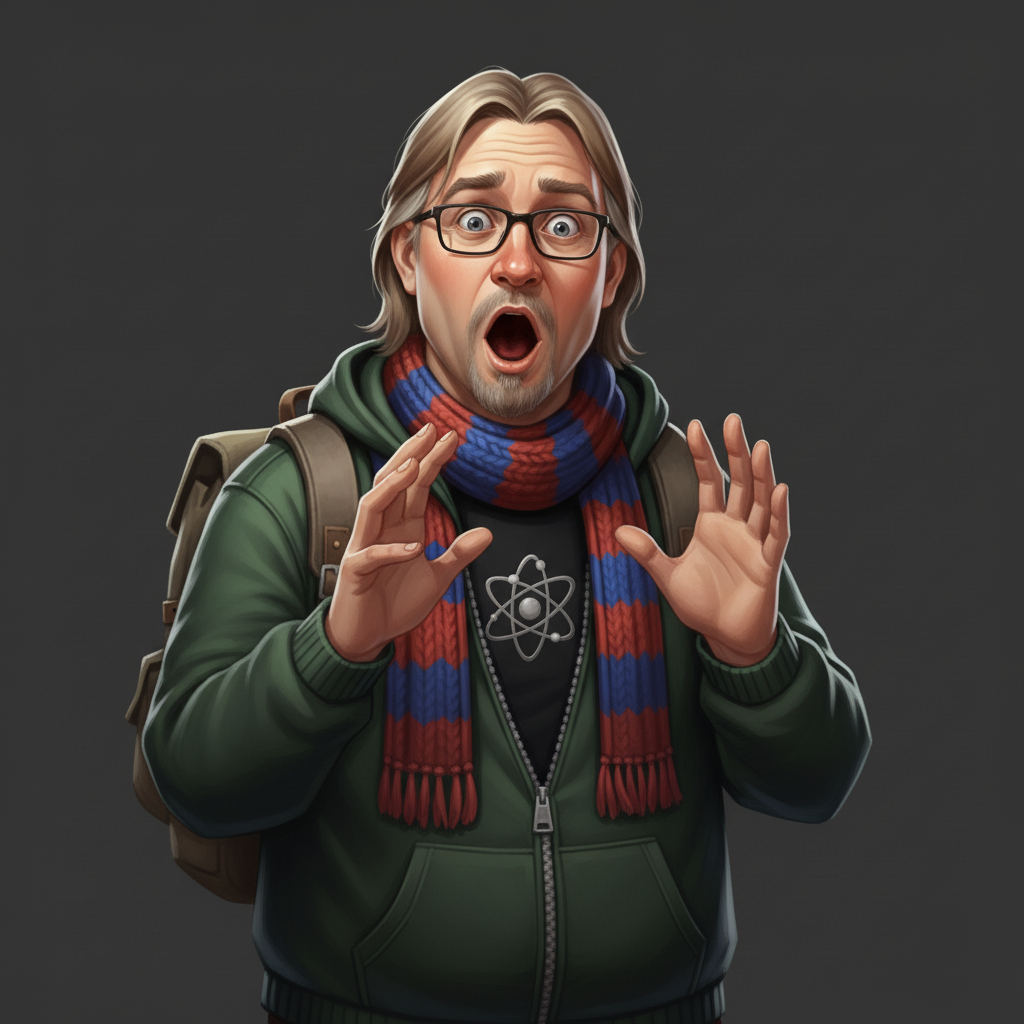
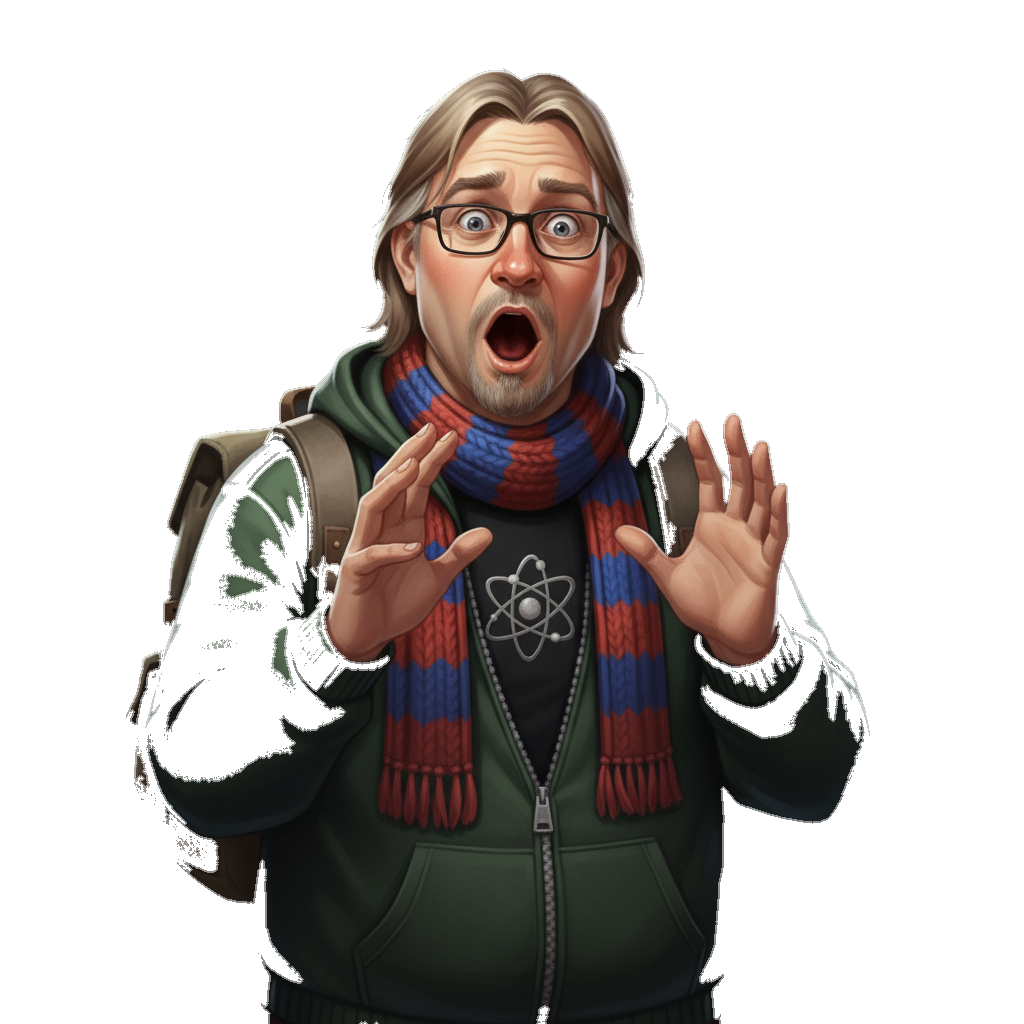
Fix Viktor scene black screen, transparent Panchin sprite
- Fix typo: hell_server_room_room → hell_server_room (caused black screen)
- Remove grey background from Panchin shocked.png sprite

diff --git a/js/scripts/endings.js b/js/scripts/endings.js
@@ -1079,7 +1079,7 @@ monogatari.script ({
 
 		// Другой путь — через серверную, не через старую дверь
 		'Виктор ведёт их в серверную. Мимо мигающих стоек, через путаницу кабелей.',
-		'show scene hell_server_room_room with fadeIn',
+		'show scene hell_server_room with fadeIn',
 		'В углу — неприметная панель. За ней — лестница вниз. Или вверх. Направление неясно.',
 
 		'viktor Тестовый выход. Его оставили в development-фазе. Никто не закрыл.',

diff --git a/js/scripts/hell.js b/js/scripts/hell.js
@@ -417,7 +417,7 @@ monogatari.script ({
 	// ВСТРЕЧА С ВИКТОРОМ (серверная ада)
 	// ==========================================
 	'Hell_Viktor_Intro': [
-		'show scene hell_server_room_room with fadeIn',
+		'show scene hell_server_room with fadeIn',
 		'show character mc normal at center',
 
 		'По пути к зоне мук Алексей замечает дверь с табличкой: «Серверная. Не входить. Серьёзно. Там 45°C».',
